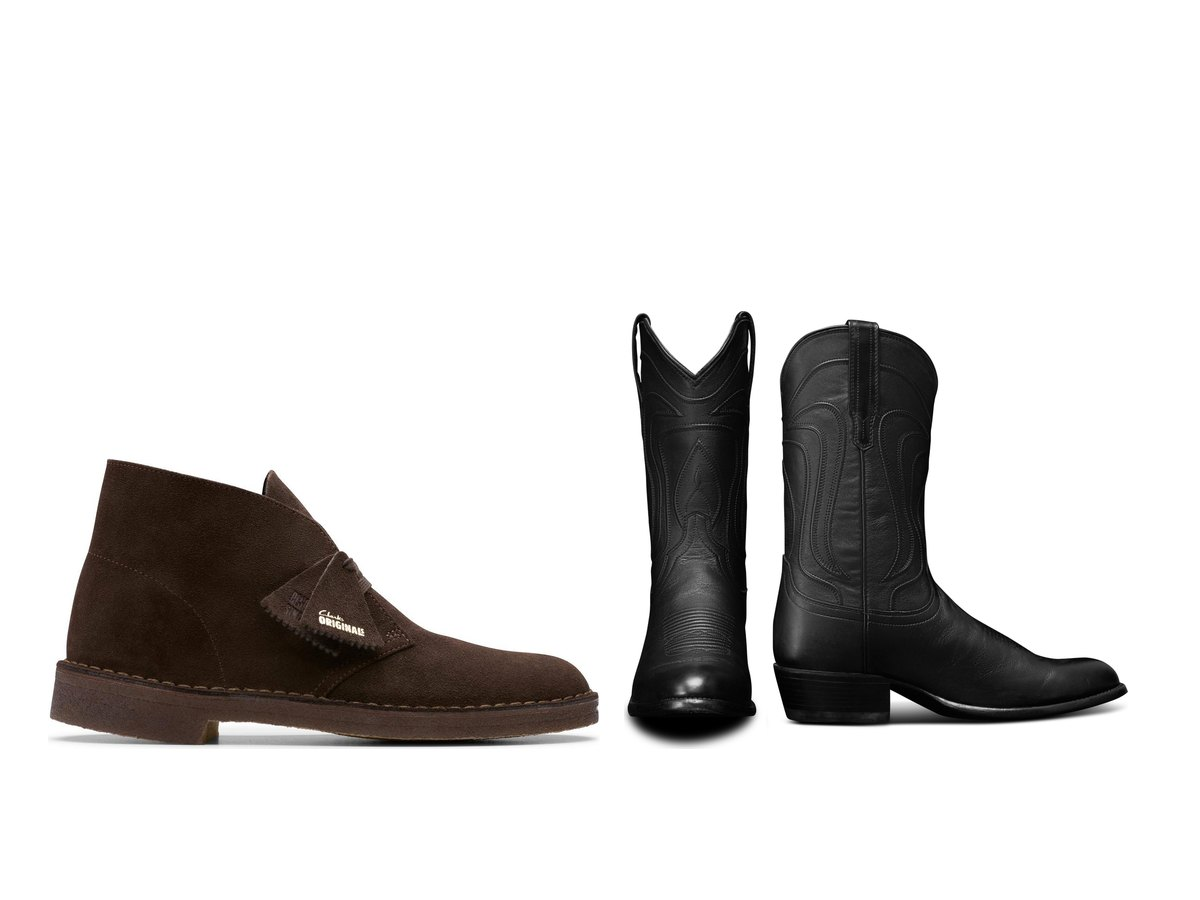
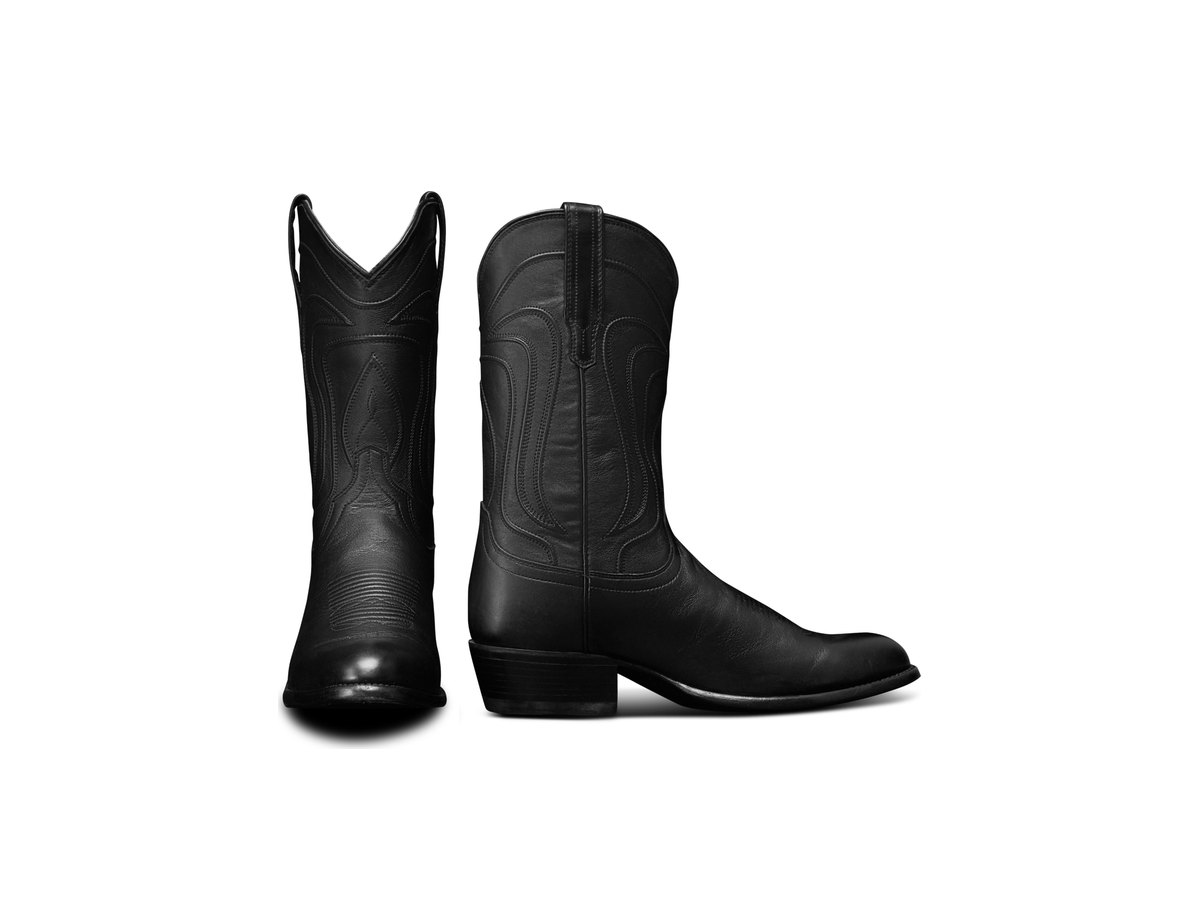
Matt's Picks slot 5: remove Clarks Desert Boot

Changed region(s): [[0.0308, 0.2178, 0.9558, 0.84]]

diff --git a/slots/boot.html b/slots/boot.html
@@ -29,7 +29,7 @@
 <div class="wrap">
   <p class="crumb"><a href="../index.html#rotation">&larr; Back to the rotation</a></p>
   <section class="slot-hero">
-    <figure class="slot-photo"><div class="tile-img"><img src="../assets/slots/slot-5.jpg" alt="Clarks Desert Boot in brown suede next to Tecovas Cartwright black cowboy boots" width="1200" height="900"></div><figcaption class="img-credit">Image: Clarks and Tecovas</figcaption></figure>
+    <figure class="slot-photo"><div class="tile-img"><img src="../assets/slots/slot-5.jpg" alt="Tecovas The Cartwright cowboy boots in Midnight cowhide" width="1200" height="900"></div><figcaption class="img-credit">Image: Tecovas</figcaption></figure>
     <div class="rules">
       <p class="eyebrow">Slot 5 of 6 &middot; Optional</p>
       <h1>The Boot <span class="tag">Optional</span></h1>
@@ -41,7 +41,7 @@
         <p class="eyebrow">My current pick: undecided / you pick</p>
         <p>I'm deciding between these two. Tell me which one earns the slot.</p>
         <div class="pick-split">
-          <div><p class="eyebrow">Option A</p><h3>Brown suede chukkas</h3><p>Pictured: Clarks Desert Boot, brown suede.</p><p class="pick-price">$140 at Clarks<span class="asof">Price as of Oct 18, 2026</span></p><p class="shop"><a class="btn btn-shop btn-sm" href="https://www.clarks.com/en-us/desert-boot/26179170-p" target="_blank" rel="noopener">Shop at Clarks &rarr;</a></p></div>
+          <div><p class="eyebrow">Option A</p><h3>Brown suede chukkas</h3><p>My own brown suede chukkas.</p><p class="budget-note">No product link or price to show for this one.</p></div>
           <div><p class="eyebrow">Option B</p><h3>Black Tecovas cowboy boots</h3><p>Pictured: Tecovas The Cartwright, Midnight cowhide.</p><p class="pick-price">$375 at Tecovas<span class="asof">Price as of Oct 18, 2026</span></p><p class="shop"><a class="btn btn-shop btn-sm" href="https://www.tecovas.com/products/the-cartwright?color=midnight-cowhide" target="_blank" rel="noopener">Shop at Tecovas &rarr;</a></p></div>
         </div>
       </div>
@@ -74,7 +74,7 @@
       </div>
     </div>
   </section>
-  <section class="options" aria-label="Other options for this slot">
+  <section class="options options-single" aria-label="Other options for this slot">
     <div class="card">
       <p class="eyebrow">From Dad Shoe Matt</p>
       <h2>Other options for this slot</h2>
@@ -84,14 +84,6 @@
           <li><strong>A suede chukka</strong><span>Easy to dress up or down.</span></li>
           <li><strong>A cowboy boot</strong><span>Like my black Tecovas.</span></li>
           <li><strong>A lace-up leather boot from Red Wing or similar</strong><span>For the buy-it-for-life guy.</span></li>
-      </ul>
-    </div>
-    <div class="card more">
-      <p class="eyebrow">More ideas</p>
-      <h2>Also worth a look</h2>
-      <p class="note">Other well-known shoes that fit this slot's rules. I haven't reviewed these yet, so they aren't in my rotation.</p>
-      <ul class="list">
-          <li><strong>Clarks Desert Boot</strong><span>The classic suede chukka on a crepe sole.</span></li>
       </ul>
     </div>
   </section>

diff --git a/index.html b/index.html
@@ -97,12 +97,12 @@
         </div>
       </a>
       <a class="tile" href="slots/boot.html">
-        <div class="tile-img"><img src="assets/slots/slot-5.jpg" alt="Clarks Desert Boot in brown suede next to Tecovas Cartwright black cowboy boots" width="1200" height="900" loading="lazy"></div>
+        <div class="tile-img"><img src="assets/slots/slot-5.jpg" alt="Tecovas The Cartwright cowboy boots in Midnight cowhide" width="1200" height="900" loading="lazy"></div>
         <div class="tile-body">
           <span class="tile-num">Slot 5 &middot; Optional</span>
           <h3 class="tile-name">The Boot</h3>
           <p class="tile-pick">Current pick<strong>Undecided: you pick</strong></p>
-          <p class="budget-price">Clarks Desert Boot $140 at Clarks / Tecovas Cartwright $375 at Tecovas<span class="asof">Price as of Oct 18, 2026</span></p>
+          <p class="budget-price">Tecovas Cartwright $375 at Tecovas<span class="asof">Price as of Oct 18, 2026</span></p>
           <span class="tile-more">See the slot <span>&rarr;</span></span>
         </div>
       </a>
@@ -311,7 +311,7 @@
       <a href="https://www.youtube.com/@dadshoerotation" rel="noopener"><svg viewBox="0 0 24 24" aria-hidden="true"><path d="M23.5 6.2a3 3 0 0 0-2.1-2.1C19.5 3.6 12 3.6 12 3.6s-7.5 0-9.4.5A3 3 0 0 0 .5 6.2 31 31 0 0 0 0 12a31 31 0 0 0 .5 5.8 3 3 0 0 0 2.1 2.1c1.9.5 9.4.5 9.4.5s7.5 0 9.4-.5a3 3 0 0 0 2.1-2.1A31 31 0 0 0 24 12a31 31 0 0 0-.5-5.8zM9.6 15.6V8.4l6.3 3.6-6.3 3.6z"/></svg> YouTube</a>
       <a href="https://www.tiktok.com/@dadshoerotation" rel="noopener"><svg viewBox="0 0 24 24" aria-hidden="true"><path d="M19.6 6.7a4.8 4.8 0 0 1-3.8-4.2V2h-3.4v13.4a2.9 2.9 0 1 1-2-2.7V9.2a6.3 6.3 0 1 0 5.4 6.2V8.6a8.2 8.2 0 0 0 3.8 1.2V6.4l-.1.3z"/></svg> TikTok</a>
     </div>
-    <p class="fine">&copy; 2026 Dad Shoe Rotation &middot; @dadshoerotation<br>Product images: StockX, Skechers, To Boot New York, adidas, Magnanni, Zappos (Allen Edmonds), Clarks, Crockett &amp; Jones, Red Wing, STAG Provisions, Tecovas, On, Finish Line, Nordstrom Rack, Nike. The Classics slot 1 photo: Dad Shoe Matt.</p>
+    <p class="fine">&copy; 2026 Dad Shoe Rotation &middot; @dadshoerotation<br>Product images: StockX, Skechers, To Boot New York, adidas, Magnanni, Zappos (Allen Edmonds), Crockett &amp; Jones, Red Wing, STAG Provisions, Tecovas, On, Finish Line, Nordstrom Rack, Nike. The Classics slot 1 photo: Dad Shoe Matt.</p>
   </div>
 </footer>
 <script src="assets/js/owned.js" defer></script>

diff --git a/assets/css/style.css b/assets/css/style.css
@@ -95,6 +95,7 @@ p{margin:0 0 1.1em}
 .pick-split div{background:rgba(255,250,243,.08);border:1px solid rgba(255,250,243,.2);border-radius:4px;padding:14px 16px}
 .pick-split h3{font-size:21px}
 .options{display:grid;grid-template-columns:1fr 1fr;gap:28px;padding:8px 0 64px}
+.options-single{grid-template-columns:1fr}
 .card{background:#fff;border:1px solid var(--line);border-radius:var(--radius);padding:26px 28px}
 .card.more{background:var(--cream-2)}
 .card h2{font-size:24px;margin-bottom:4px}

diff --git a/README.md b/README.md
@@ -38,7 +38,7 @@ Each slot uses exactly one image file. It shows on the homepage tile and at the 
 | 2. The Workout Shoe | `assets/slots/slot-2.jpg` | adidas Adizero Dropset Pro (adidas) |
 | 3. The Clean White Sneaker | `assets/slots/slot-3.jpg` | Magnanni Elonso Cap Toe, white (Nordstrom Rack); shop link: Nordstrom Rack |
 | 4. The Work Dress Shoe | `assets/slots/slot-4.jpg` | Allen Edmonds Park Avenue (Zappos) |
-| 5. The Boot | `assets/slots/slot-5.jpg` | Clarks Desert Boot + Tecovas Cartwright, side by side (Clarks, Tecovas) |
+| 5. The Boot | `assets/slots/slot-5.jpg` | Tecovas Cartwright (Tecovas) |
 | 6. The Wildcard | `assets/slots/slot-6.jpg` | On Cloudtilt Arc, Alloy/Ivory (On) |
 
 To swap in your own photo, replace the file and keep the same name. Use a JPG, 1200 x 900 (4:3), shoe centered on a white background, under about 200 KB. If you change the source of a photo, update the "Image:" caption on the slot page and the credit line in the footer of `index.html`.
